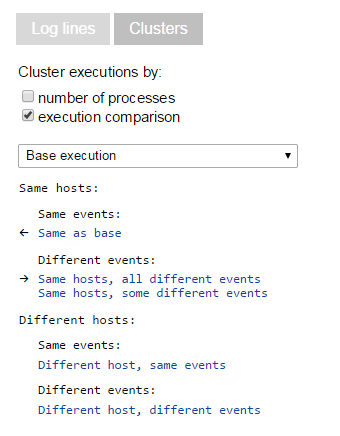
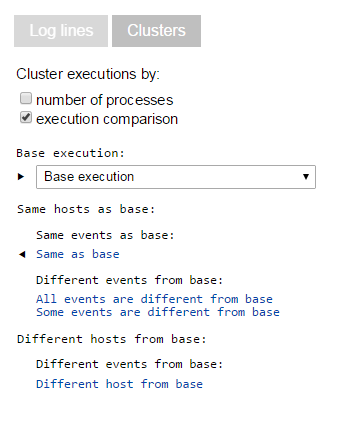
Updated description and image for clustering on home page

diff --git a/index.html b/index.html
@@ -133,7 +133,7 @@
                     </li>
 
                     <li>
-                    <strong>Group executions into different clusters</strong>
+                    <strong>Explore execution clusters</strong>
                         <br>
                         For logs with multiple executions, click on the
                         "clusters" tab to separate executions into 
